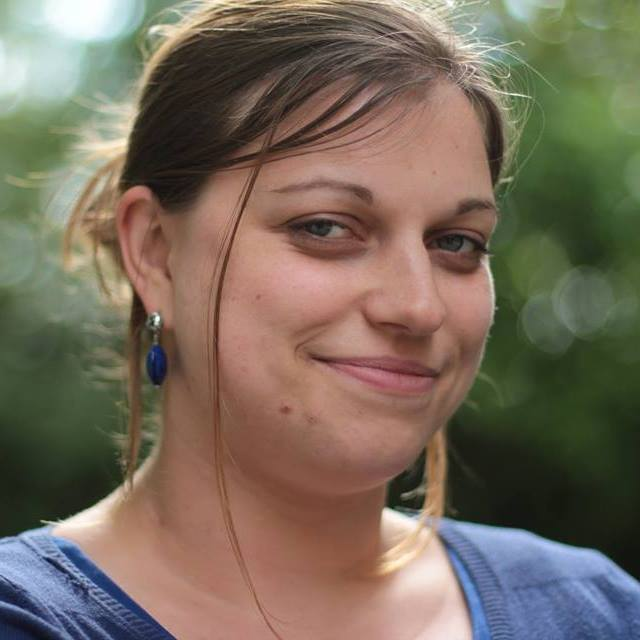
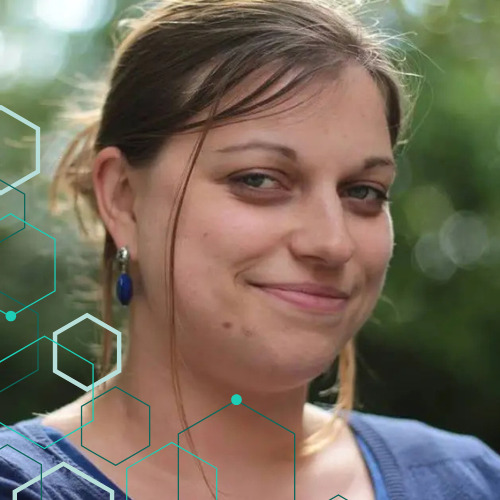
styling presentation section

diff --git a/index.html b/index.html
@@ -28,10 +28,11 @@
             <div class="presentation">
                 <picture>
                     <source srcset="resources/img/claire2.webp">
+                    <source srcset="resources/img/claire1.png">
                     <source srcset="resources/img/claire.jpg">
-                    <img src="resources/img/claire.jpg" alt="Photo portrait de Claire Bouchard réflexologue auriculaire">
-                 </picture>
-                <p>Lorem ipsum dolor sit amet consectetur adipisicing elit. Id corrupti ducimus ex maxime maiores, fuga possimus sint! Odit autem temporibus veritatis ullam molestias animi fuga vel iusto quos, iste at libero adipisci cupiditate optio cumque numquam, sapiente maxime, ipsam minima. Deserunt debitis harum, vel ipsa eos molestias ratione iusto accusamus sequi quod consectetur impedit magnam, officiis iste nisi velit in sapiente quo voluptatem sint hic numquam natus culpa. Excepturi soluta odit dolor nisi officia beatae omnis tenetur labore nesciunt quae provident, non, nemo in asperiores? Magnam modi omnis officia porro voluptate nisi non laborum quaerat itaque dolorum sit expedita earum dolore, ex repellat rerum, perspiciatis nam pariatur nemo aut cum. Tenetur sit ea, ad corrupti excepturi nisi quae error dolorem voluptatibus et eius quos rerum assumenda quisquam dolor qui laboriosam atque quis sequi earum minus praesentium ab! Similique facere quo assumenda ipsum, dolorum adipisci veniam cum velit natus debitis eaque! Consectetur est earum autem repellat quaerat incidunt corporis ea eligendi pariatur assumenda corrupti dolorum numquam vel in, et totam modi rerum tempora natus odit qui nemo aliquam! Recusandae cum nobis soluta natus quam deleniti! Id, itaque! Saepe fugit, obcaecati, ducimus consequatur in et asperiores adipisci rem sequi provident beatae quo. Labore eum voluptas eos maiores ipsum natus numquam totam officiis officia dolore earum provident molestiae nesciunt laborum, reiciendis recusandae eveniet ipsa in sapiente! Totam porro alias exercitationem, repudiandae quasi possimus minus asperiores fugit nemo vero eligendi doloremque at saepe quae voluptas harum tempora eius expedita temporibus eos laborum cumque unde facere omnis! Quos repudiandae eligendi nisi illo veniam est quia hic odio cum voluptatem adipisci sed, dignissimos earum nesciunt accusamus non! Autem dolorem expedita suscipit et, explicabo numquam illum cupiditate quasi sit debitis magni veniam aperiam corporis id, modi aliquid. Inventore, tenetur iste vitae accusamus, dicta magnam adipisci similique illum repellendus numquam provident ratione minus mollitia debitis nisi veritatis neque eius quibusdam impedit, autem odit deserunt totam? Id obcaecati temporibus neque tempore. Dolor maxime architecto nobis perspiciatis iure, tenetur modi, minus deleniti ea enim veritatis iusto eos consequatur. Et, consequuntur in. Sequi, expedita quo, numquam hic corrupti porro quod doloribus cum fugiat, placeat aut commodi dolor qui soluta sint? Soluta beatae eveniet corrupti doloremque at, omnis hic harum non dolore aliquid aut qui laudantium mollitia quia animi labore! Eius alias vero natus quisquam tenetur itaque at quaerat dignissimos similique omnis, neque ipsa perspiciatis iure, iste harum nesciunt, porro laudantium cum ad quibusdam. Id, velit quasi. Odio repellat excepturi quae totam. Atque voluptatibus sit ratione illo rem, fugiat magnam, quas illum nam vitae culpa veritatis autem. Laudantium voluptatum minima repellendus sint! Ipsum nostrum mollitia ex est officiis, pariatur eaque ab alias, quam autem aperiam commodi impedit. Officiis exercitationem perspiciatis mollitia dolores cum neque et sit ullam unde nulla, distinctio cupiditate porro iste explicabo. Harum blanditiis quisquam quod, magnam itaque eaque cupiditate ab ut molestiae nobis architecto necessitatibus nostrum aperiam voluptatum laborum dolorem reiciendis animi recusandae sequi dolorum, libero quibusdam cum veritatis. Excepturi consequatur deserunt cumque eveniet. Excepturi doloribus voluptatem aliquam molestiae.</p>
+                    <img src="resources/img/claire.jpg" alt="Photo portrait de Claire Bouchard réflexologue auriculaire" class="portrait">
+                </picture>
+                <p>Lorem ipsum dolor sit amet, consectetur adipisicing elit. Iste omnis veritatis earum eligendi dicta tempore blanditiis nulla laborum fuga consectetur dolore esse dolorum rem consequatur dolores neque velit iure impedit, aut assumenda vel quae, in possimus voluptates? Voluptates a, reiciendis deserunt placeat id beatae culpa quaerat, eveniet minus eum dignissimos! Atque eaque itaque, harum quisquam officia eveniet dolorum at, voluptate distinctio vero voluptatibus maiores quod amet enim. Blanditiis, ab atque alias facilis ex accusamus facere dolorem in, quisquam ratione corporis repudiandae voluptatem unde tempore, non laudantium cum voluptatum. Eaque nihil numquam omnis officiis sapiente, molestias repellat eum quas quisquam similique.</p>
             </div>
         </div>  
         <div class="reflexo">  

diff --git a/styles.css b/styles.css
@@ -5,16 +5,16 @@
   }
 
 button {
-    background-color: #1dcdb5;
-    color: whitesmoke;
-    border-color: #1dcdb5   ;
+    background-color: #b8ded9;
+    border-color: #b8ded9;
+    color: black;
     border-radius: 5px;
 }
 
 button:hover {
-    background-color: #b8ded9;
-    border-color: #b8ded9;
-    color: black;
+    background-color: #1dcdb5;
+    color: whitesmoke;
+    border-color: #1dcdb5;
     border-radius: 5px;
 }
 
@@ -32,6 +32,7 @@ header {
     position: sticky;
     top:0%;
     background-color: white;
+    z-index: 1000;
 }
 
 html {
@@ -40,6 +41,12 @@ html {
 
 main{
     background-color: whitesmoke;
+}
+
+picture{
+    padding-left: 30%;
+    transition: transform 0.8s ease;
+    z-index: 2;
 }
 
 .flexbox {
@@ -112,13 +119,34 @@ main{
     color: #0e675b;
 }
 
+.portrait{
+    border-radius: 79% 21% 79% 21% / 21% 79% 21% 79%; 
+    border: solid #0e675b 2px;
+}
+
 .presentation{
     padding: 3rem;
     display: flex;
+    justify-content: center;
 }
 
 .presentation > p {
+    visibility: hidden;
+    opacity: 0;
+    transition: opacity 2s ease;
+}
+
+.presentation:hover picture{
     padding-left: 3rem;
+    opacity: 0.8;
+    transform: translateX(-3rem);
+}
+
+.presentation:hover p{
+    display: flex;
+    visibility: visible;
+    opacity: 1;
+    align-items: center;
 }
 
 .reflexo{
